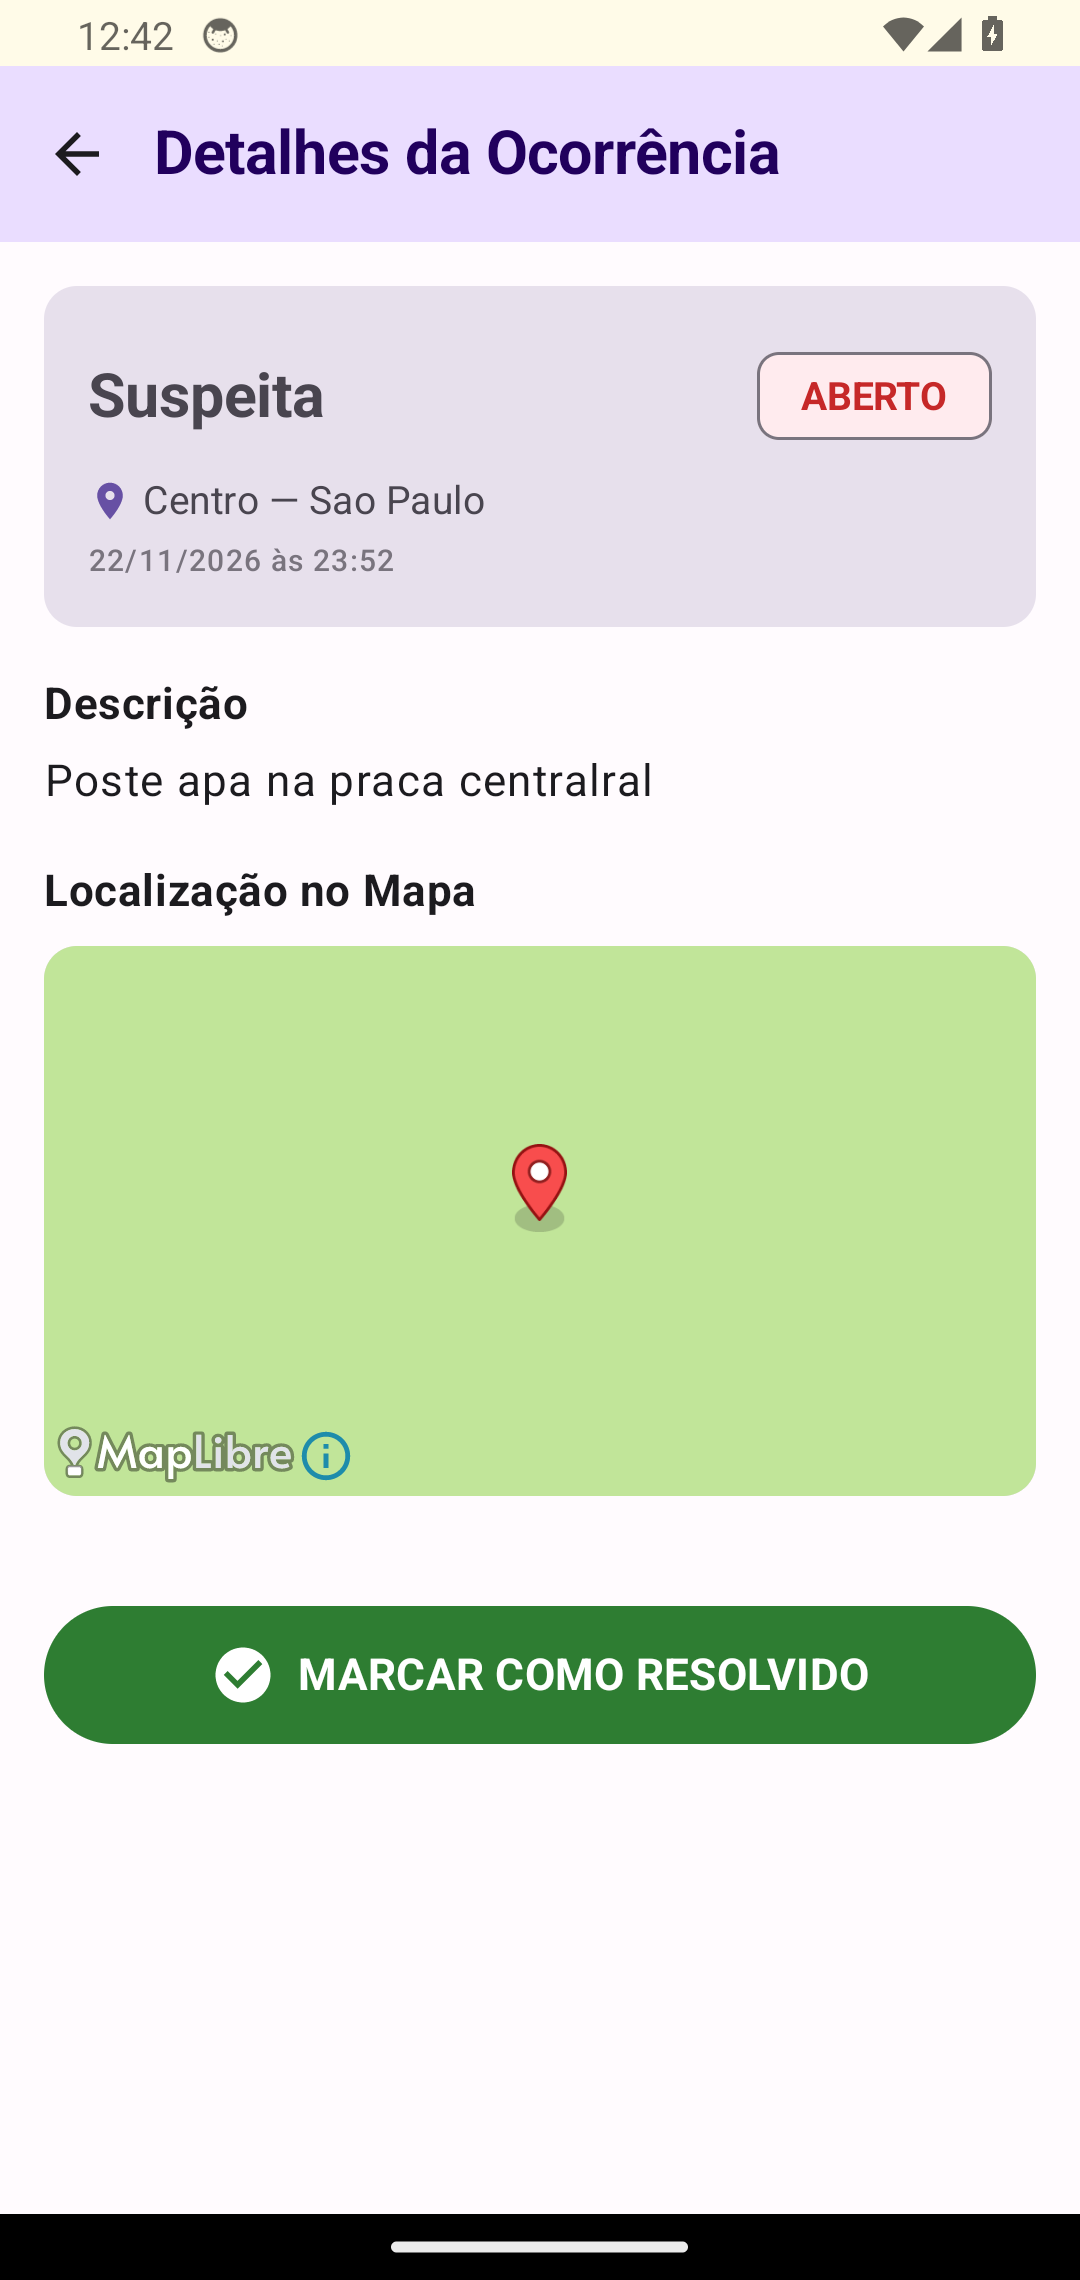
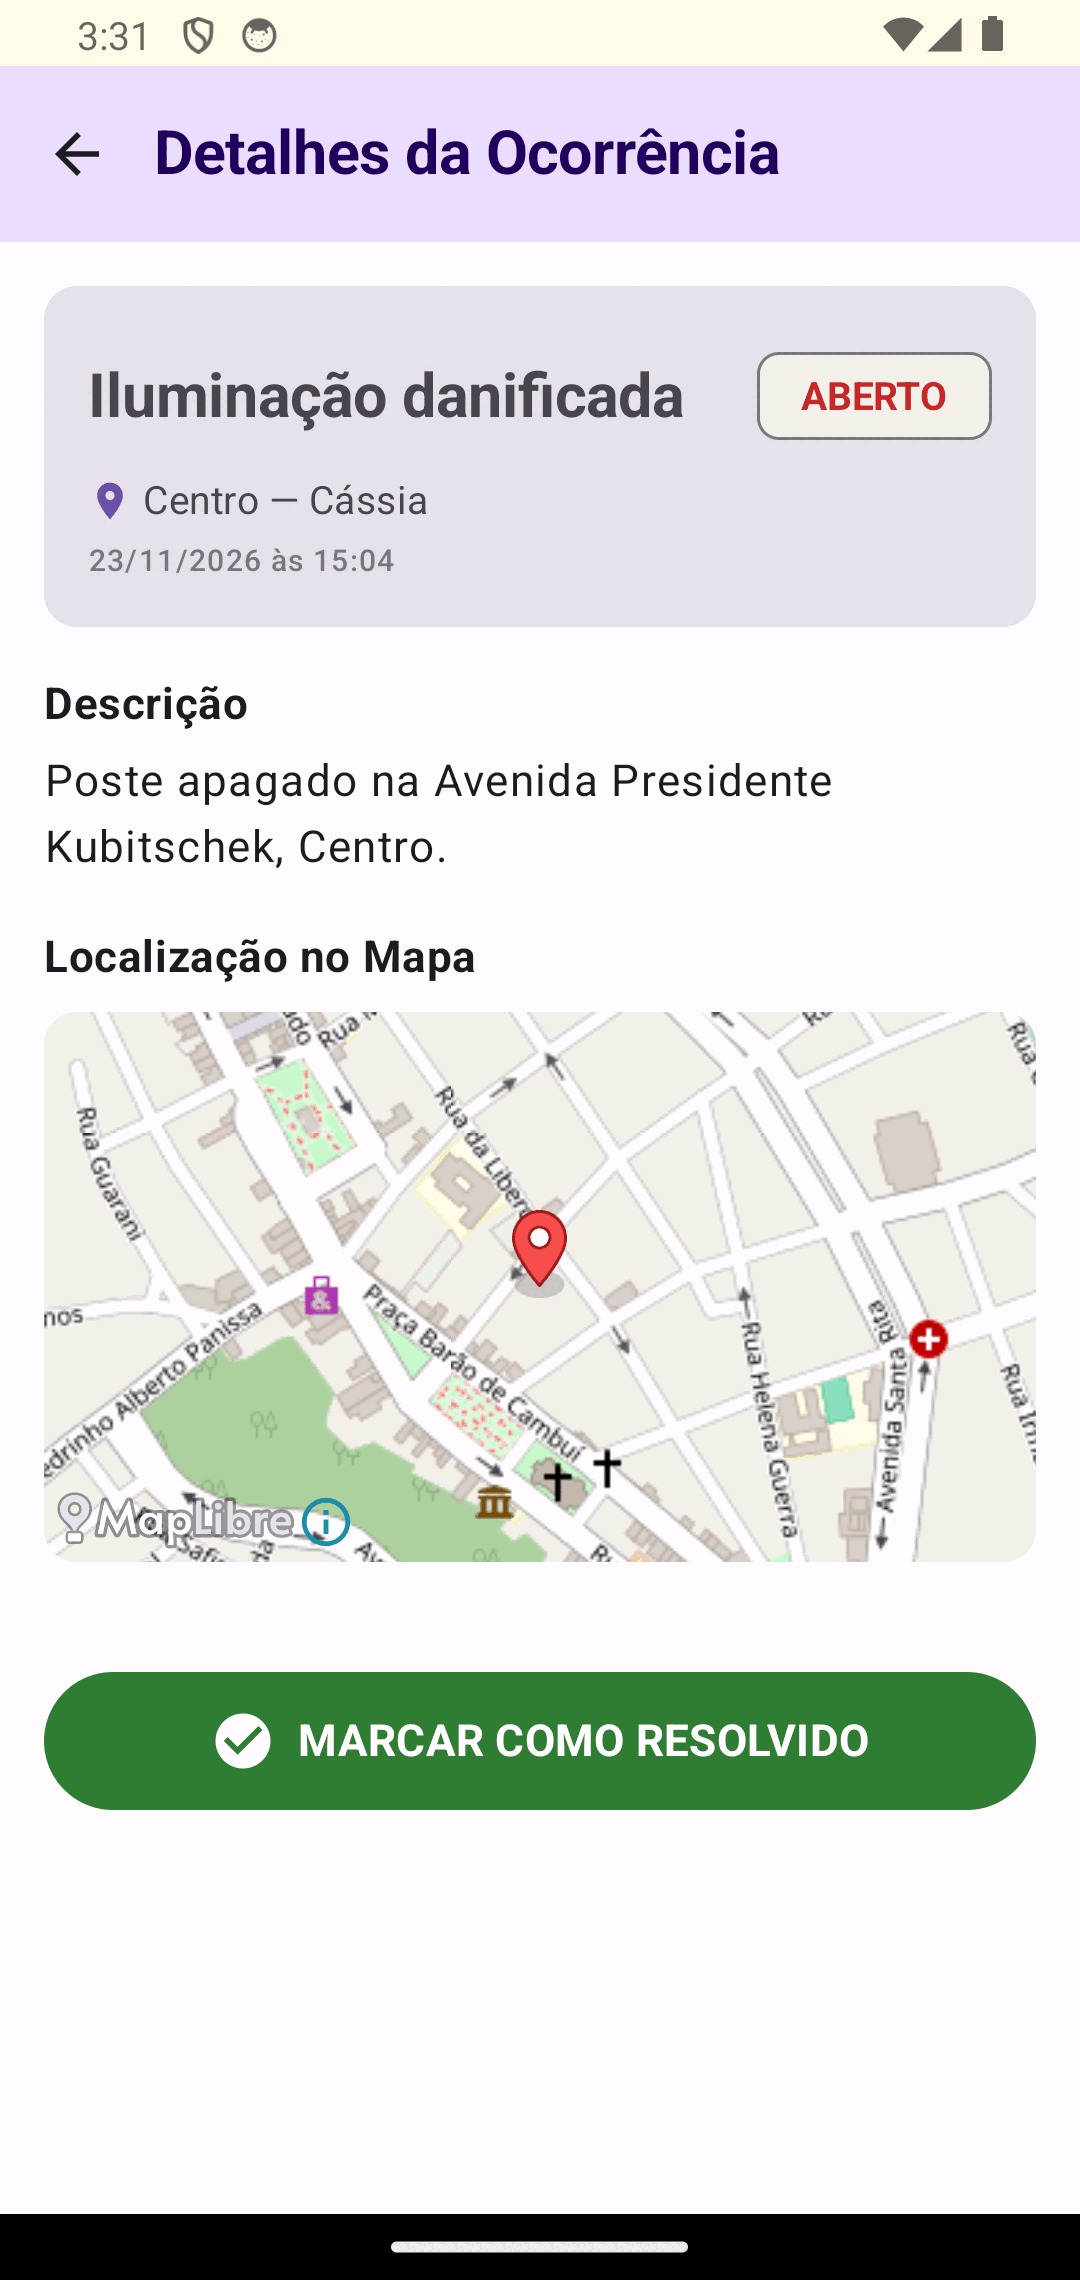
fix: usa tiles OSM nos detalhes e atualiza captura da ocorrencia

diff --git a/app/src/main/java/com/vizinhoalerta/ui/detalhes/DetalhesScreen.kt b/app/src/main/java/com/vizinhoalerta/ui/detalhes/DetalhesScreen.kt
@@ -27,6 +27,7 @@ import coil.compose.AsyncImage
 import com.vizinhoalerta.data.OcorrenciaRepository
 import com.vizinhoalerta.model.Ocorrencia
 import com.vizinhoalerta.service.AudioService
+import com.vizinhoalerta.ui.mapa.MapaEstilo
 import kotlinx.coroutines.launch
 import org.maplibre.android.MapLibre
 import org.maplibre.android.WellKnownTileServer
@@ -308,7 +309,7 @@ fun DetalhesScreen(
                                     modifier = Modifier.fillMaxSize()
                                 ) { view ->
                                     view.getMapAsync { map ->
-                                        map.setStyle(Style.Builder().fromUri("https://demotiles.maplibre.org/style.json")) { _ ->
+                                        map.setStyle(Style.Builder().fromJson(MapaEstilo.OSM)) { _ ->
                                             map.clear()
                                             map.addMarker(MarkerOptions().position(pos).title(o.tipo))
                                             map.cameraPosition = CameraPosition.Builder().target(pos).zoom(15.0).build()

diff --git a/app/src/debug/java/com/vizinhoalerta/ui/mapa/MapaBackend.kt b/app/src/debug/java/com/vizinhoalerta/ui/mapa/MapaBackend.kt
@@ -22,10 +22,6 @@ import org.maplibre.android.maps.Style
 
 /** Debug: mapa OpenStreetMap via MapLibre, sem API key do Google. */
 internal object MapaBackend {
-    private val OSM_STYLE = """
-        {"version":8,"sources":{"osm":{"type":"raster","tiles":["https://tile.openstreetmap.org/{z}/{x}/{y}.png"],"tileSize":256,"attribution":"© OpenStreetMap contributors"}},"layers":[{"id":"osm","type":"raster","source":"osm"}]}
-    """.trimIndent()
-
     @Composable
     fun Content(
         ocorrencias: List<Ocorrencia>,
@@ -60,7 +56,7 @@ internal object MapaBackend {
 
         AndroidView(factory = { mapView }, modifier = Modifier.fillMaxSize()) { view ->
             view.getMapAsync { map ->
-                map.setStyle(Style.Builder().fromJson(OSM_STYLE)) {
+                map.setStyle(Style.Builder().fromJson(MapaEstilo.OSM)) {
                     map.clear()
                     ocorrencias.filter { it.lat != 0.0 && it.lng != 0.0 }.forEach { o ->
                         map.addMarker(

diff --git a/app/src/main/java/com/vizinhoalerta/ui/mapa/MapaEstilo.kt b/app/src/main/java/com/vizinhoalerta/ui/mapa/MapaEstilo.kt
@@ -1,0 +1,8 @@
+package com.vizinhoalerta.ui.mapa
+
+/** Estilo raster OpenStreetMap usado pelo MapLibre (sem API key). */
+internal object MapaEstilo {
+    val OSM = """
+        {"version":8,"sources":{"osm":{"type":"raster","tiles":["https://tile.openstreetmap.org/{z}/{x}/{y}.png"],"tileSize":256,"attribution":"© OpenStreetMap contributors"}},"layers":[{"id":"osm","type":"raster","source":"osm"}]}
+    """.trimIndent()
+}
